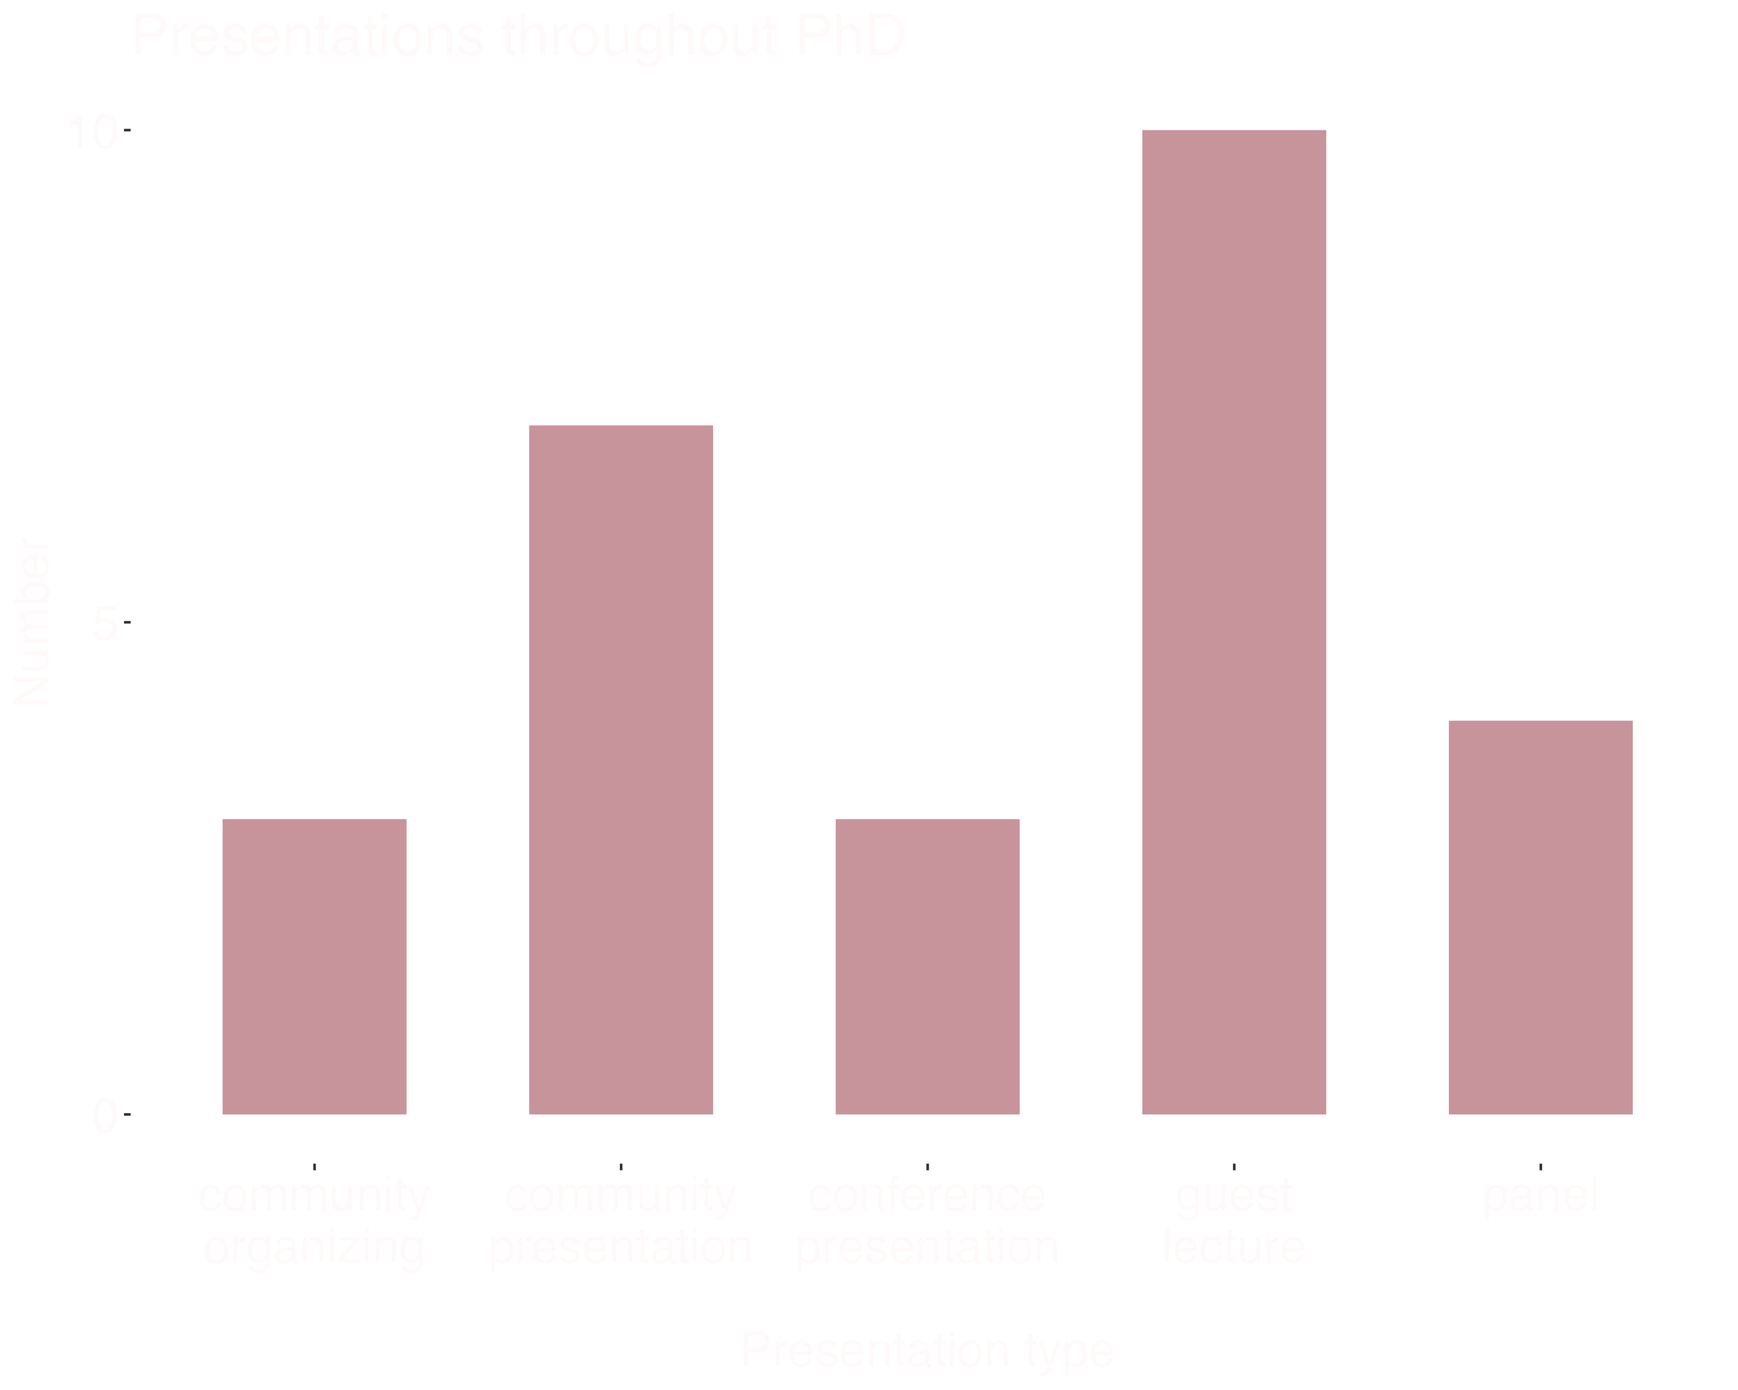
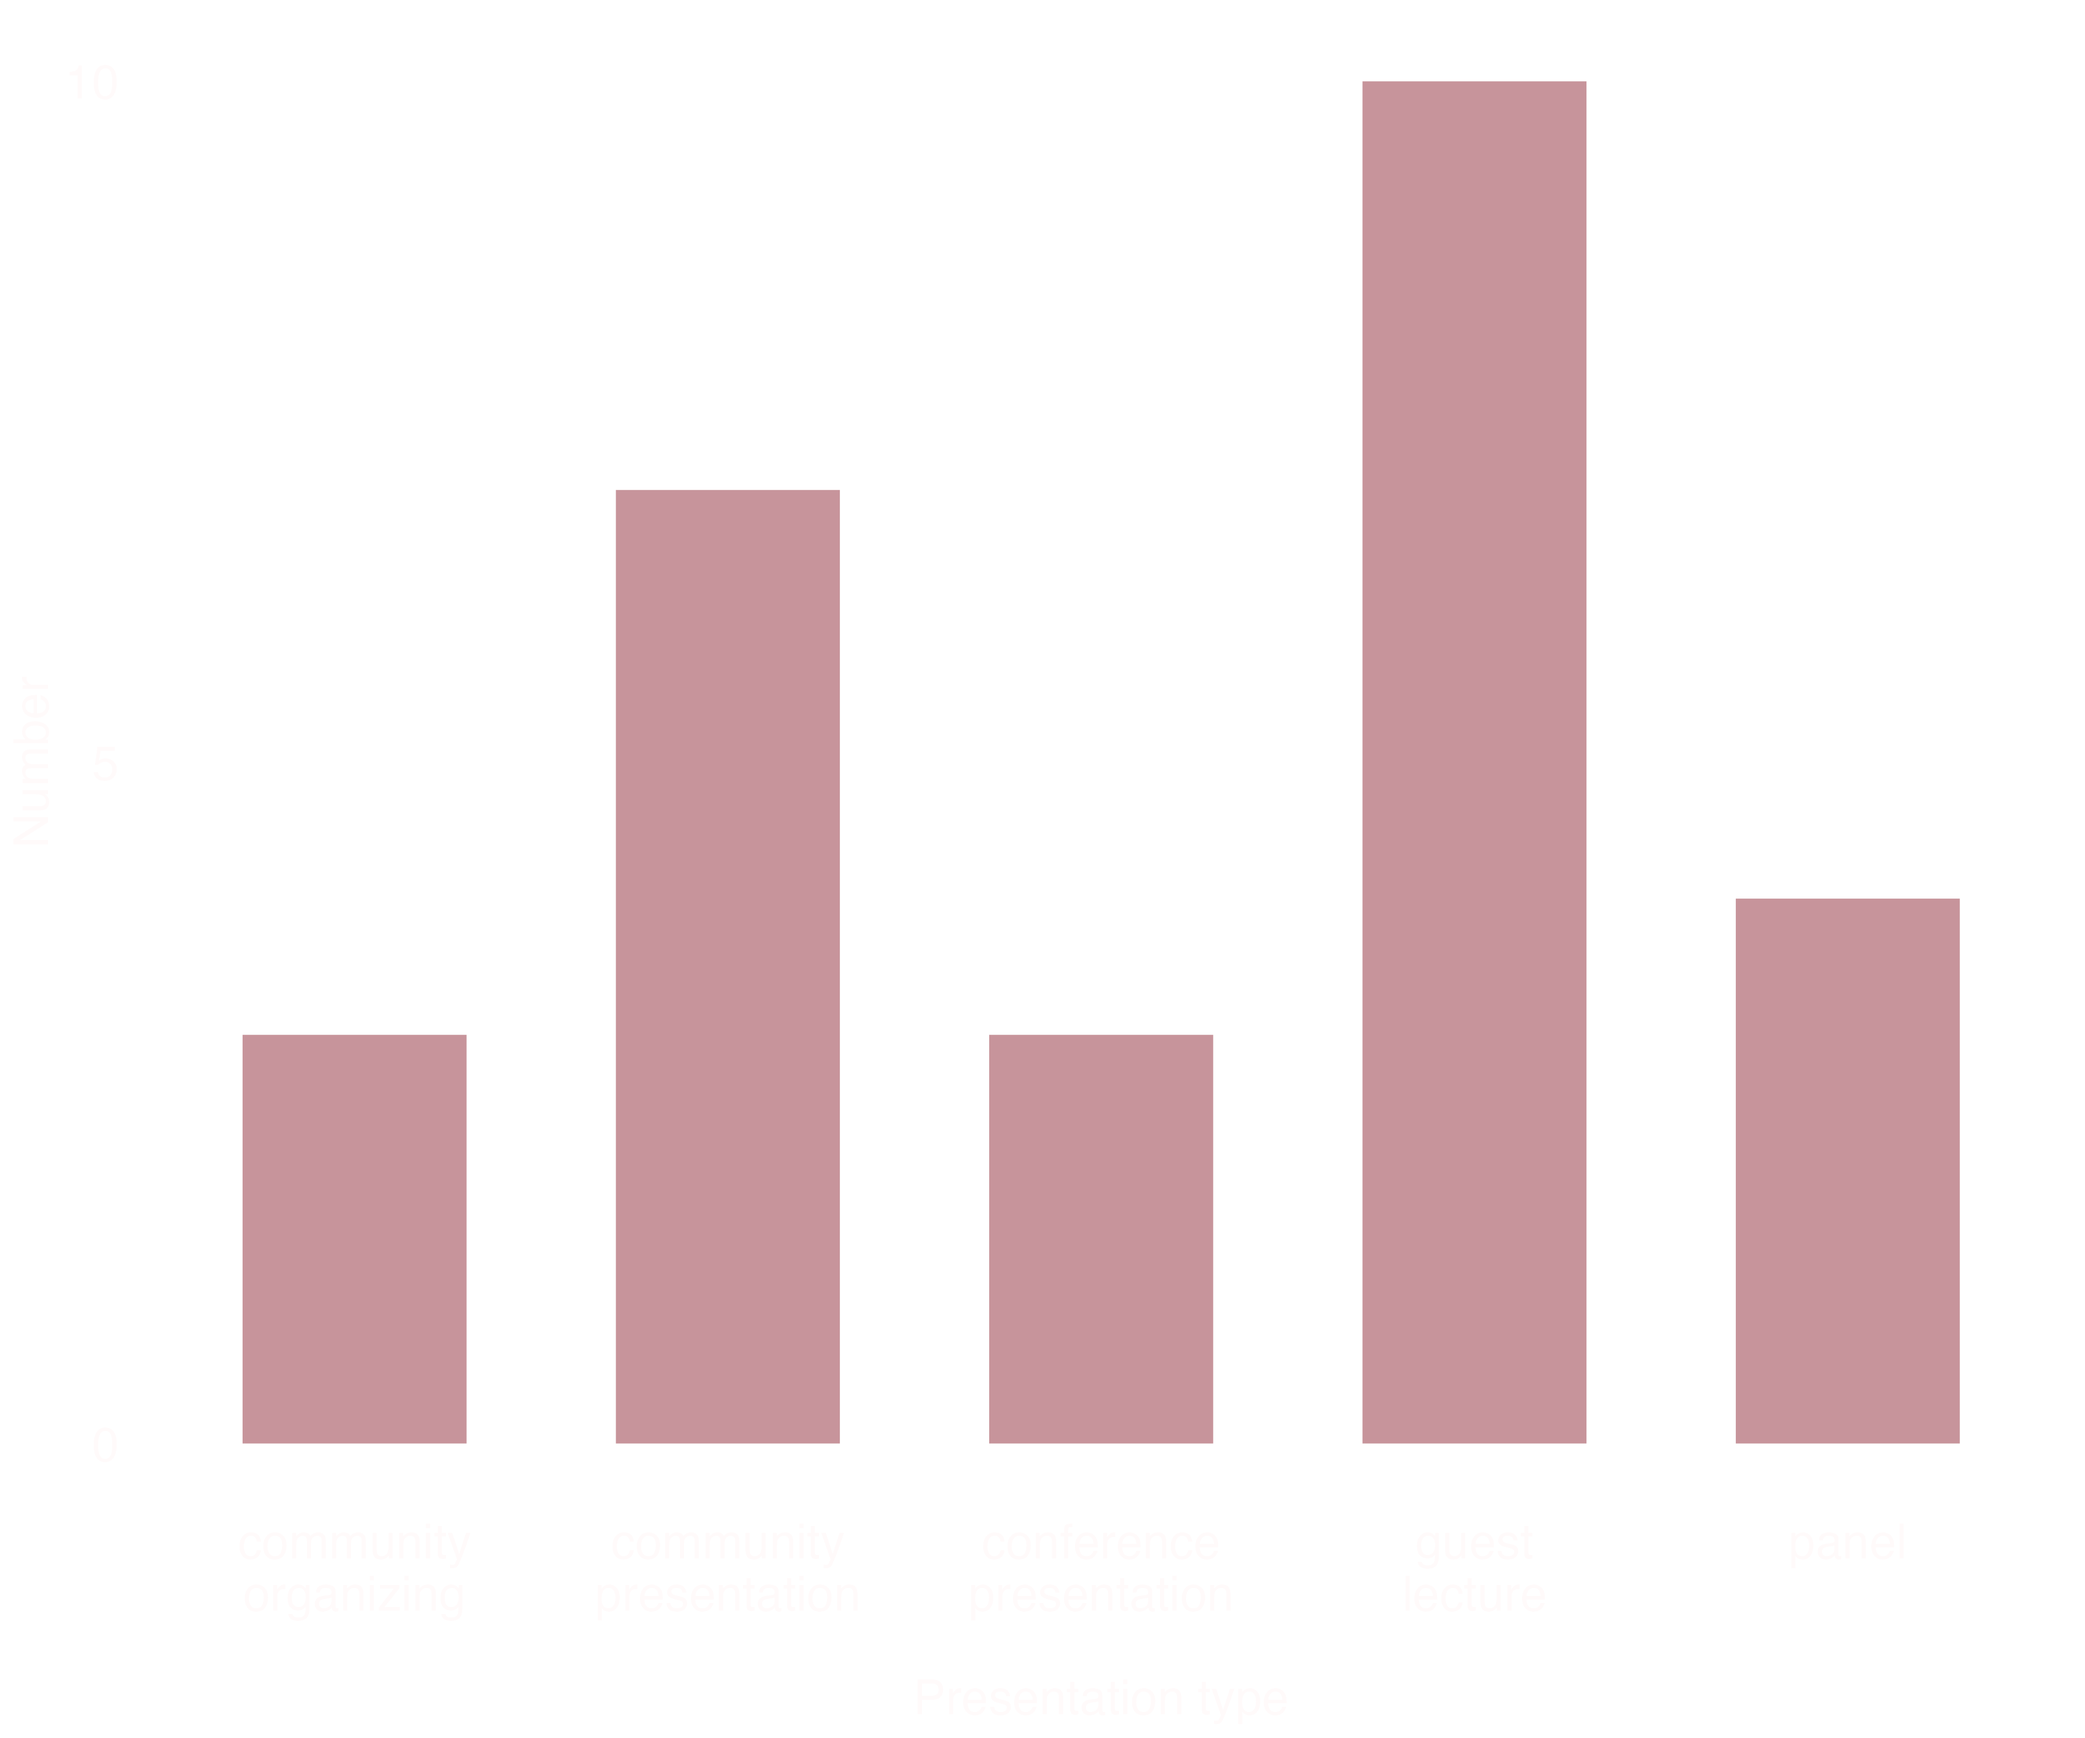
center and resize comm page

diff --git a/docs/community.html b/docs/community.html
@@ -119,7 +119,7 @@ ul.task-list li input[type="checkbox"] {
 <header id="title-block-header" class="quarto-title-block default">
 <div class="quarto-title">
 <h1 class="title">community</h1>
-<p class="subtitle lead">Like most, I want the science that I do to make an impact. Two key ‘themes’ during my PhD, were gaining perspective through collaborations and sharing my research/scientific journey.</p>
+<p class="subtitle lead">Like most, I want the science that I do to make an impact. Two key ‘themes’ during my PhD were gaining perspective through collaborations and sharing my research/scientific journey.</p>
 </div>
 
 
@@ -139,16 +139,20 @@ ul.task-list li input[type="checkbox"] {
 <p>I’ve been fortunate to have worked with brilliant minds from across the globe. I value each and everyone’s perspective that has been influential to my career and personal development.</p>
 <div class="cell">
 <div class="cell-output-display">
-<p><img src="phd-metrics/map/map_collabs.png" class="img-fluid" width="1153"></p>
+<p><img src="phd-metrics/map/map_collabs.png" class="img-fluid" width="1131"></p>
 </div>
 </div>
 </section>
 <section id="dissemination" class="level4">
 <h4 class="anchored" data-anchor-id="dissemination">dissemination</h4>
 <p>What is knowledge if it isn’t shared? Not only do I care about sharing my scientific findings, but it is important to share my experiences. Below are some ways I’ve shared my scientific journey, perspective, and science throughout my PhD.</p>
-<div class="cell">
+<div class="cell" data-layout-align="center">
 <div class="cell-output-display">
-<p><img src="phd-metrics/plots/presentations.png" class="img-fluid" width="1500"></p>
+<div class="quarto-figure quarto-figure-center">
+<figure class="figure">
+<p><img src="phd-metrics/plots/presentations.png" class="img-fluid figure-img" style="width:80.0%"></p>
+</figure>
+</div>
 </div>
 </div>
 <p>The metrics above are inspired by <a href="https://www.phoeberacine.com/">Phoebe Racine</a>.</p>
